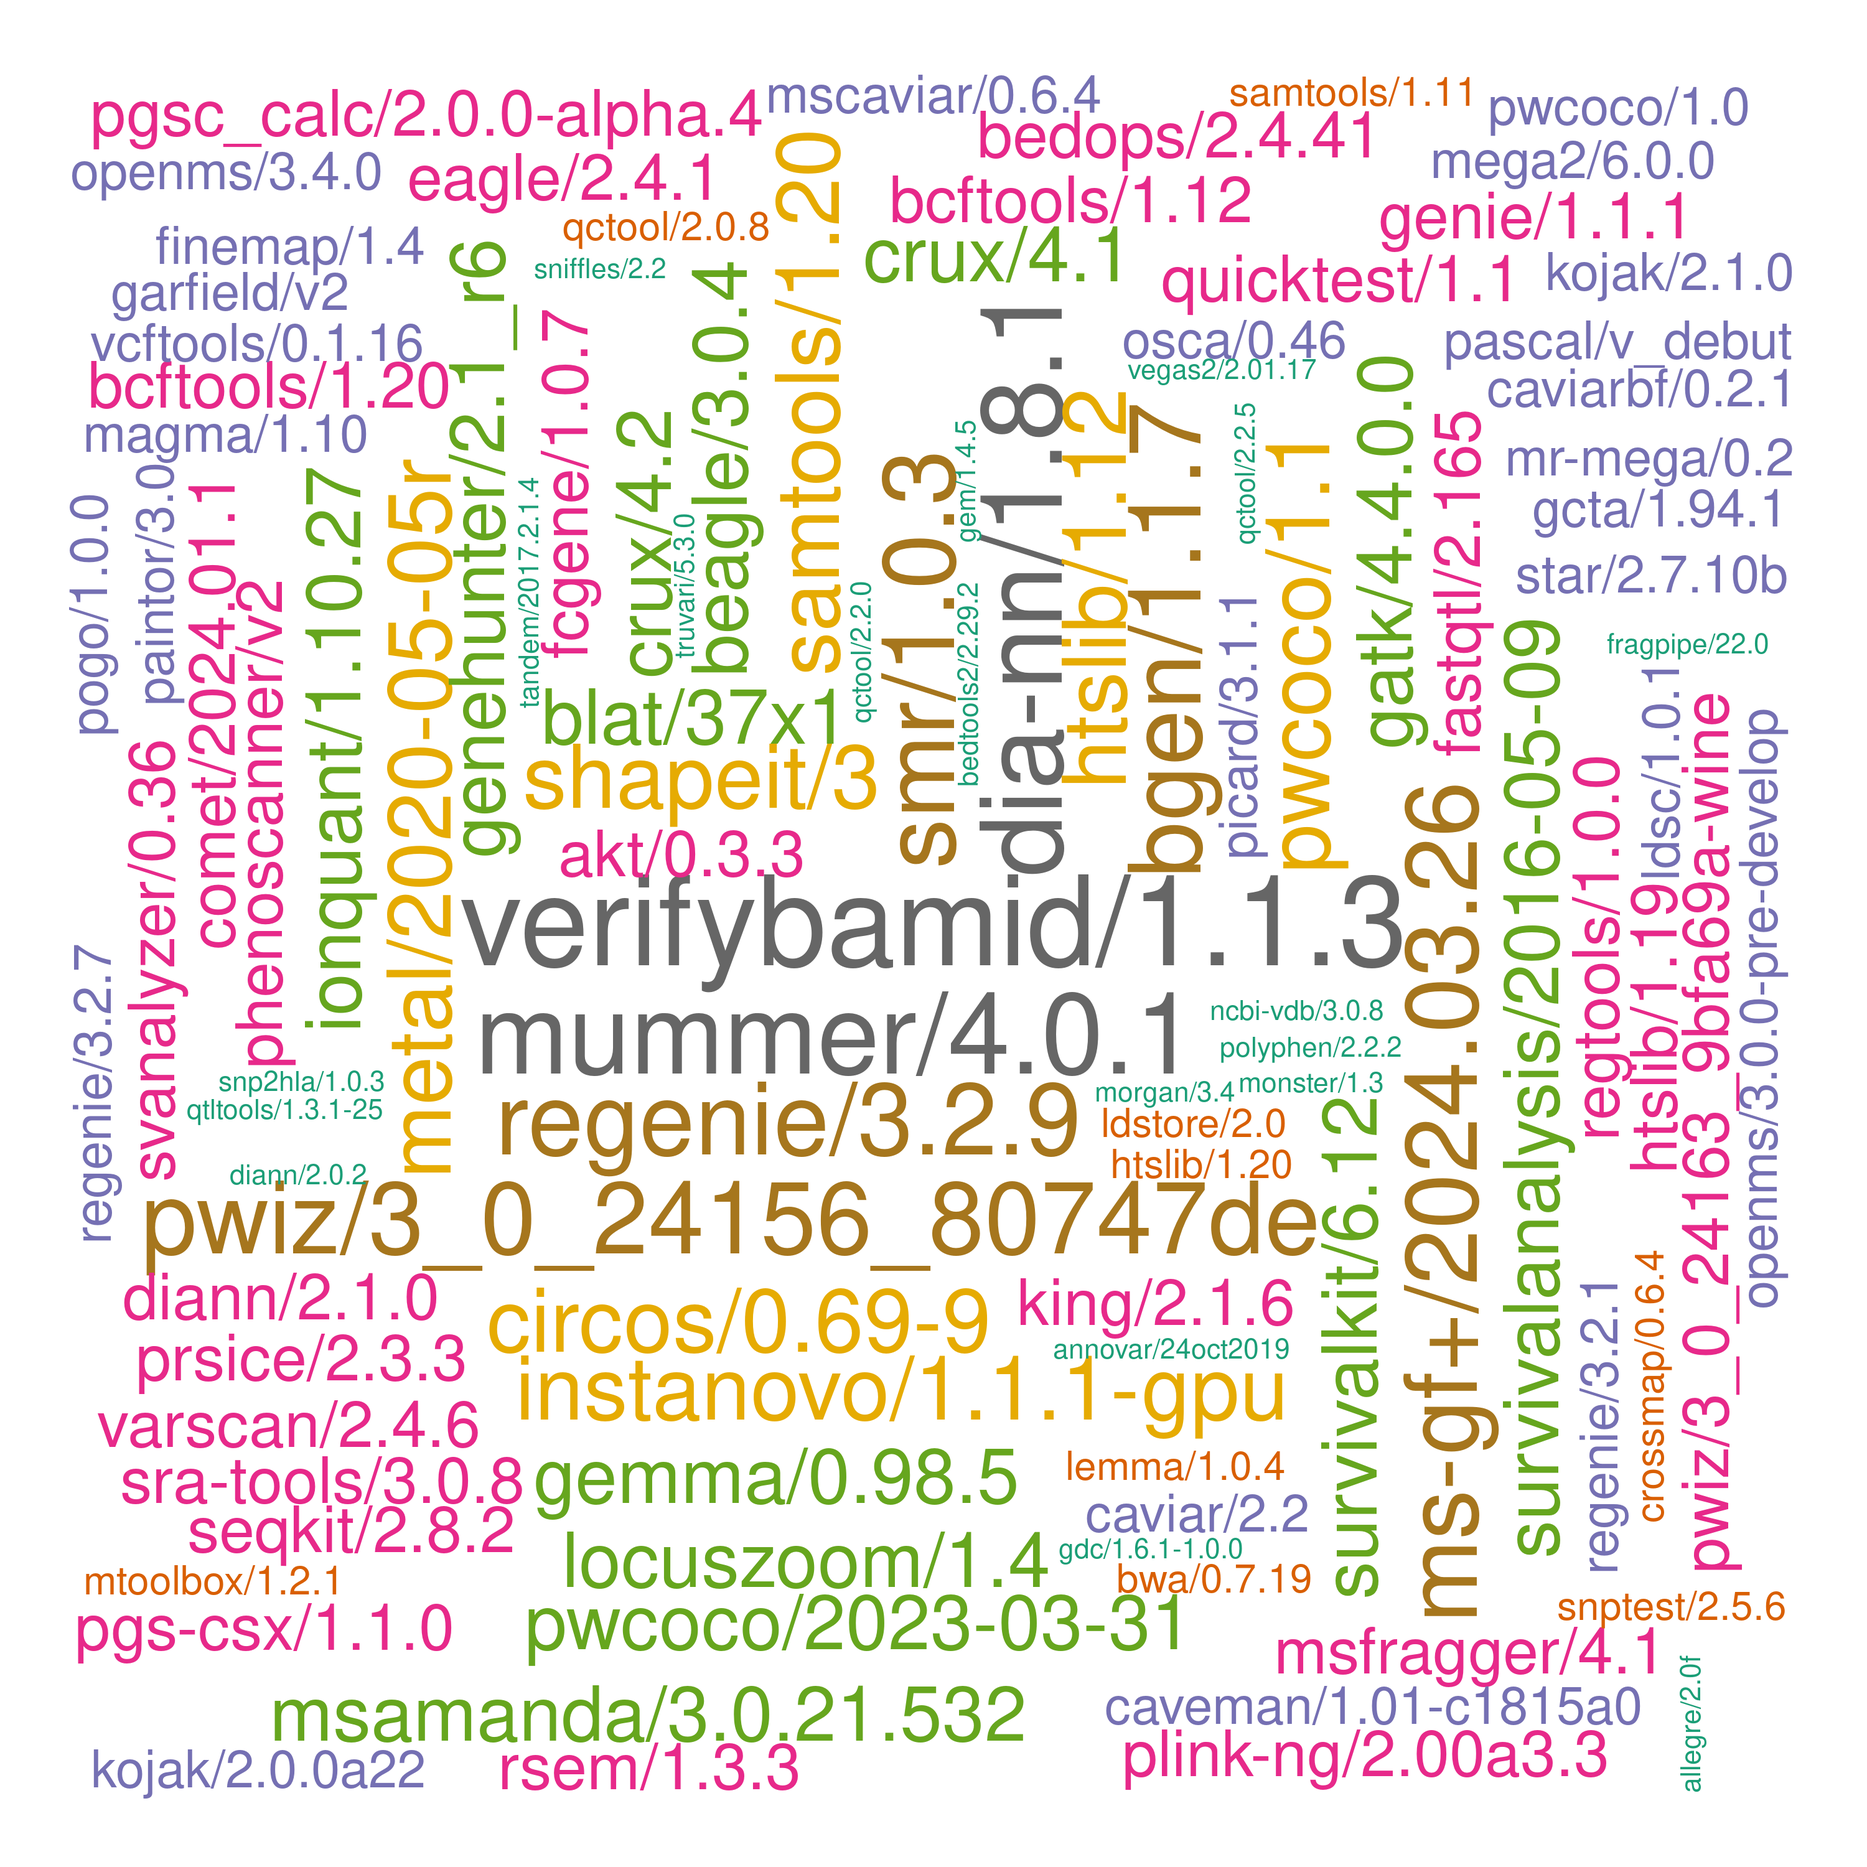
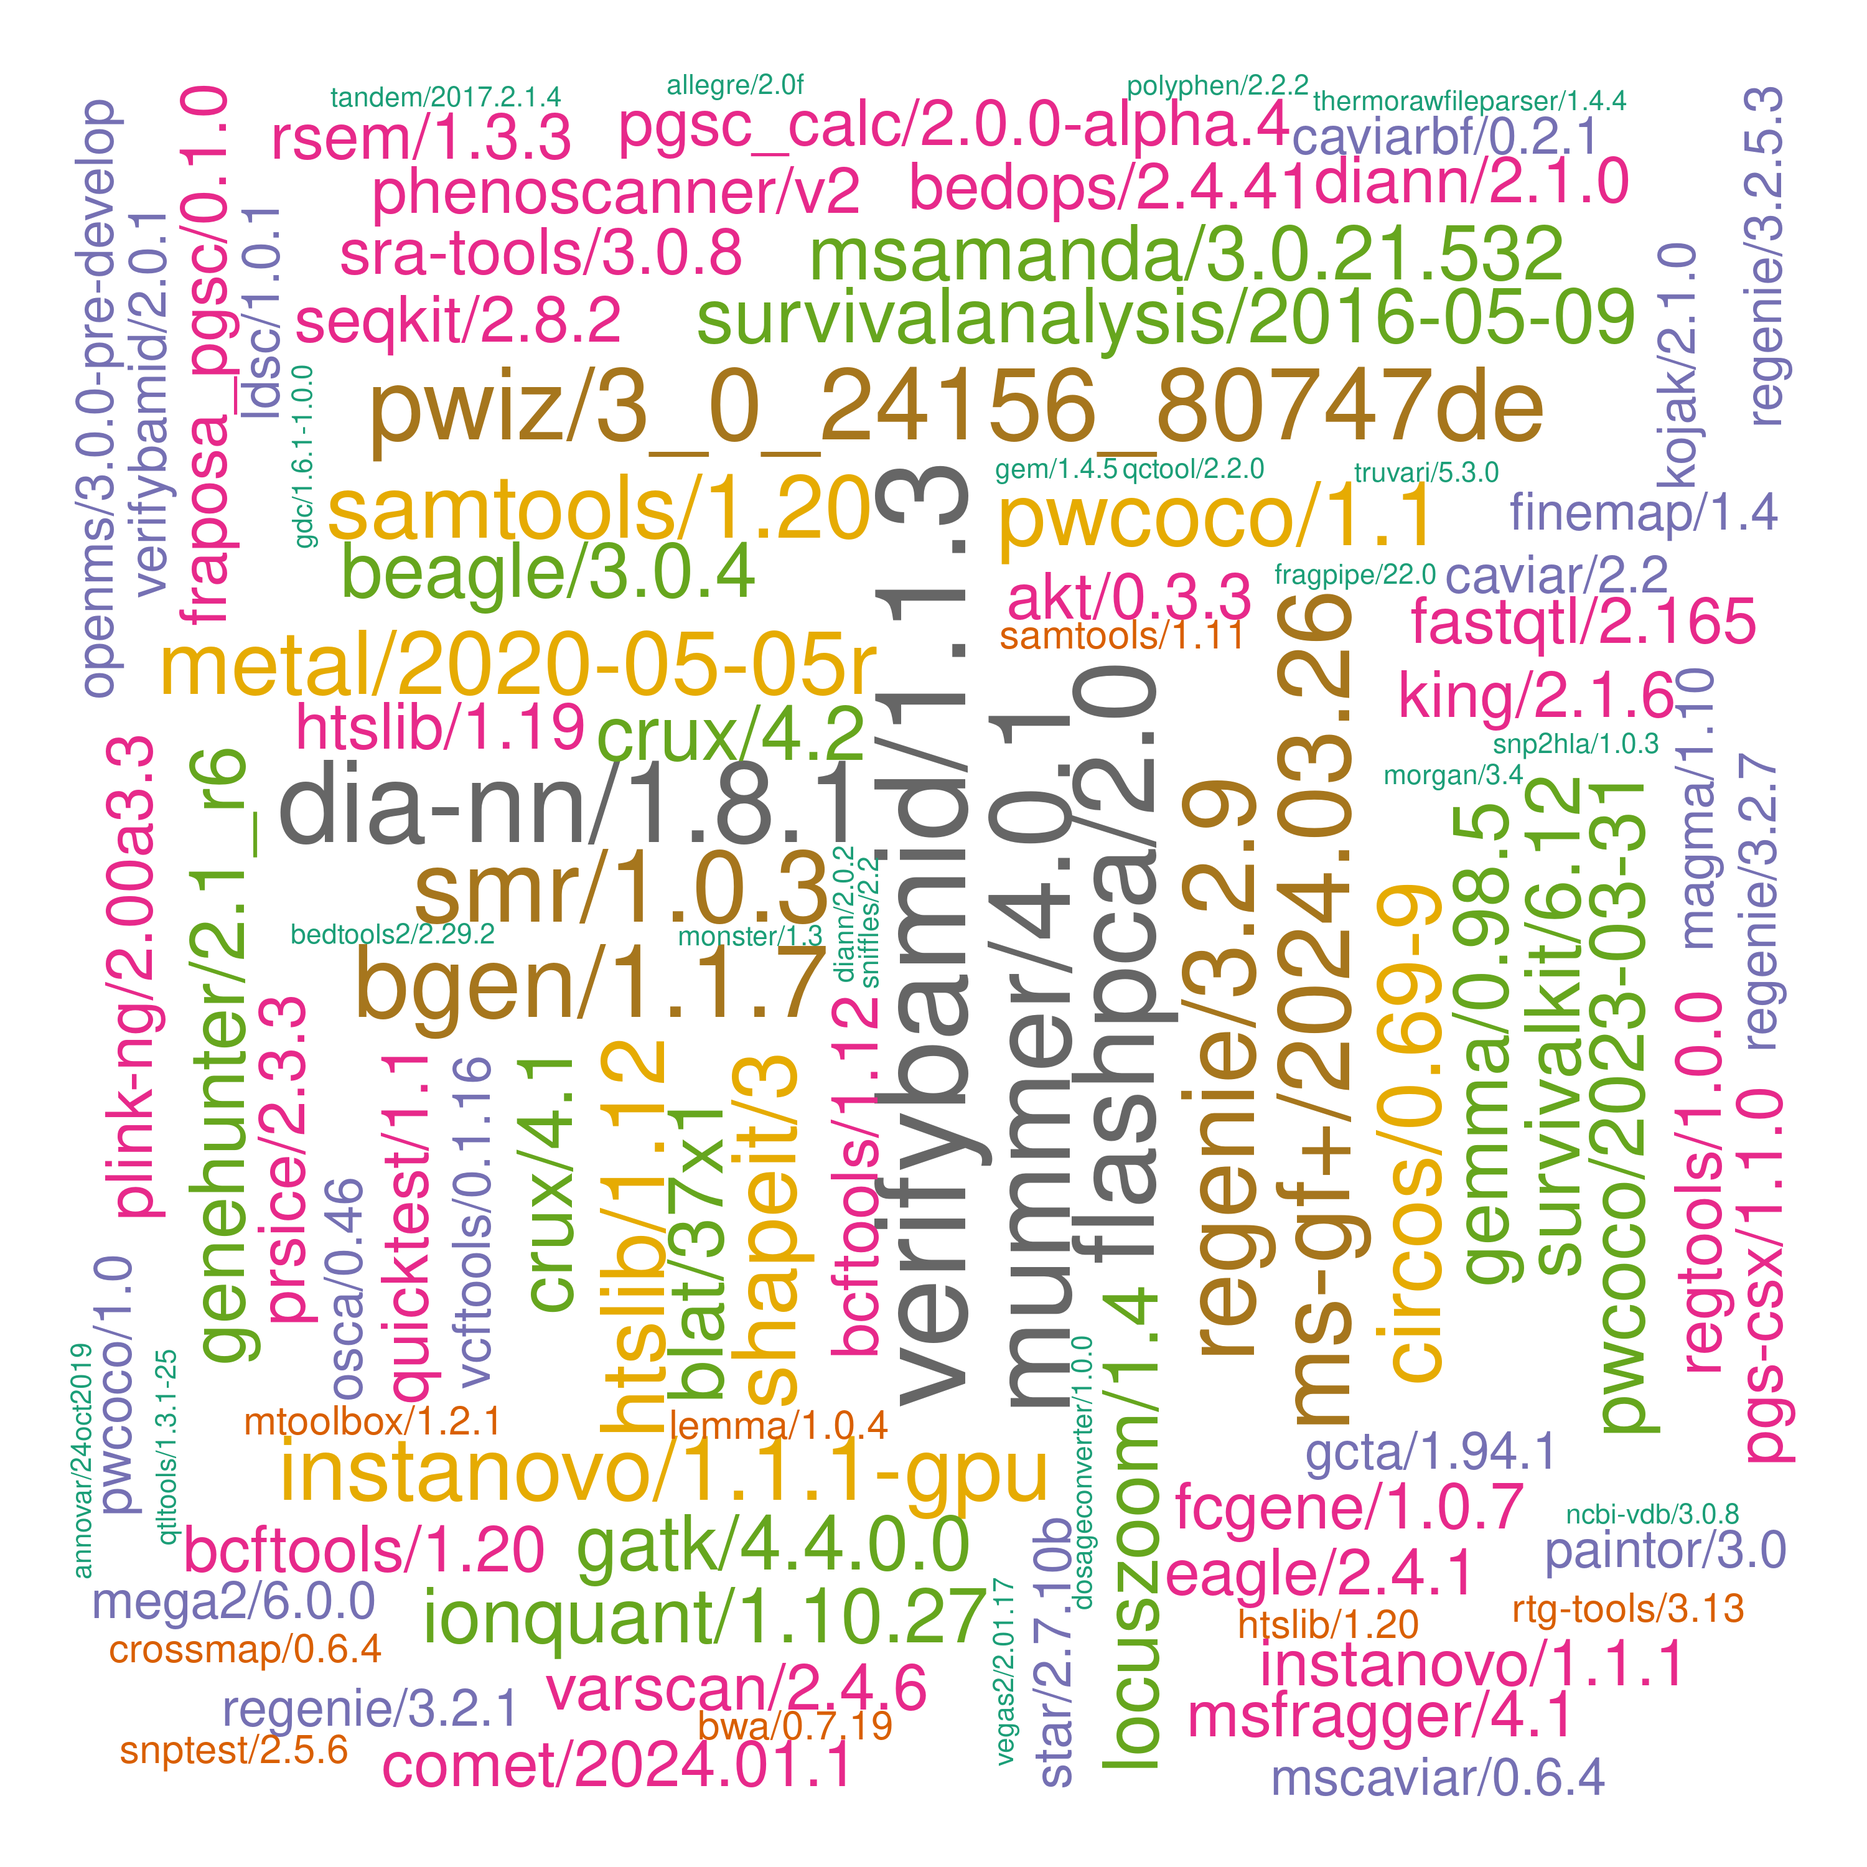
./

Changed region(s): [[0.031, 0.031, 0.961, 0.961]]

diff --git a/systems/ceuadmin.md b/systems/ceuadmin.md
@@ -34,70 +34,71 @@ The current list is as follows,
  [65] "edit"                   "edlib"                  "enchant"                "ensembl-vep"
  [69] "exiv2"                  "exomeplus"              "expat"                  "FastQTL"
  [73] "fcGENE"                 "ffmpeg"                 "fgwas"                  "findlib"
- [77] "finemap"                "firefox"                "FlashLFQ"               "fly"
- [81] "fossil"                 "fpc"                    "FragPipe"               "fraposa_pgsc"
- [85] "freesurfer"             "fribidi"                "GARFIELD"               "gatk"
- [89] "gcta"                   "gdal"                   "gdc"                    "geany"
- [93] "GEM"                    "GEMMA"                  "GENIE"                  "Genotype-Harmonizer"
- [97] "geos"                   "gettext"                "gh"                     "ghc"
-[101] "ghostscript"            "git"                    "git-extras"             "GitKraken"
-[105] "git-lfs"                "glib"                   "glibc"                  "globusconnectpersonal"
-[109] "glpk"                   "gmp"                    "gnutls"                 "go"
-[113] "googletest"             "graphene"               "GraphicsMagick"         "GreenAlgorithms4HPC"
-[117] "gsl"                    "gsutil"                 "gtk+"                   "gtksourceview"
-[121] "gtool"                  "haplogrep"              "hap.py"                 "hivex"
-[125] "hpg"                    "htslib"                 "hunspell"               "icu"
-[129] "ImageJ"                 "ImageMagick"            "impute"                 "inetutils"
-[133] "InstaNovo"              "IonQuant"               "JabRef"                 "JAGS"
-[137] "jasper"                 "jq"                     "json-c"                 "KentUtils"
-[141] "KING"                   "kojak"                  "krb5"                   "lapack"
-[145] "ldc2"                   "ldsc"                   "LDstore"                "LEMMA"
-[149] "leptonica"              "lib64"                  "libarchive"             "libcares"
-[153] "libgcrypt"              "libgeotiff"             "libgit2"                "libglvnd"
-[157] "libiconv"               "libidn2"                "libjpeg-turbo"          "libntlm"
-[161] "libpng"                 "libseccomp"             "libsodium"              "libssh"
-[165] "libssh2"                "libuv"                  "libxml2"                "libxslt"
-[169] "linux"                  "llama.cpp"              "llm"                    "locuszoom"
-[173] "LVM2"                   "MAGENTA"                "magma"                  "Mango"
-[177] "MaxQuant"               "Mega2"                  "metal"                  "MetaMorpheus"
-[181] "micromamba"             "Miniconda3"             "MONSTER"                "MORGAN"
-[185] "MR-MEGA"                "msamanda"               "MsCAVIAR"               "MSFragger"
-[189] "MS-GF+"                 "msms"                   "MToolBox"               "MUMmer"
-[193] "nano"                   "nasm"                   "ncbi-vdb"               "ncurses"
-[197] "netbeans"               "nettle"                 "nextflow"               "nginx"
-[201] "NLopt"                  "node"                   "nspr"                   "ntlm"
-[205] "ocaml"                  "ollama"                 "oniguruma"              "opam"
-[209] "openjdk"                "OpenMS"                 "openssh"                "openssl"
-[213] "osca"                   "p7zip-zstd"             "PAINTOR"                "pandoc"
-[217] "pandoc-citeproc"        "pango"                  "parallel"               "Pascal"
-[221] "patchelf"               "pcre2"                  "pdf2djvu"               "pdfjam"
-[225] "peer"                   "Perseus"                "pgsc_calc"              "PGS-CSx"
-[229] "phenoscanner"           "PhySO"                  "picard"                 "pigz"
-[233] "pkg-config"             "plink"                  "plink-bgi"              "plinkseq"
-[237] "podman"                 "PoGo"                   "polyphen"               "poppler"
-[241] "popt"                   "proj"                   "PRSice"                 "pspp"
-[245] "pulsar"                 "PWCoCo"                 "pwiz"                   "python"
-[249] "qctool"                 "qemu"                   "qpdf"                   "qt"
-[253] "qtcreator"              "QTLtools"               "quarto"                 "quicktest"
-[257] "R"                      "raremetal"              "rclone"                 "readline"
-[261] "regenie"                "regtools"               "RHHsoftware"            "RSEM"
-[265] "rst2pdf"                "rstudio"                "rtg-tools"              "rtmpdump"
-[269] "ruby"                   "rust"                   "sage"                   "samtools"
-[273] "Scala"                  "scGPT"                  "seqkit"                 "SEQPower"
-[277] "shapeit"                "singularity"            "SMR"                    "snakemake"
-[281] "sniffles"               "SNP2HLA"                "snptest"                "spread-sheet-widget"
-[285] "spyder"                 "sqlite"                 "sra-tools"              "sshpass"
-[289] "ssw"                    "STAR"                   "stata"                  "SurvivalAnalysis"
-[293] "SurvivalKit"            "SuSiEx"                 "SVanalyzer"             "Swift"
-[297] "SYMPHONY"               "Synapse"                "tabix"                  "tandem"
-[301] "tatami"                 "tesseract"              "texinfo"                "ThermoRawFileParser"
-[305] "ThermoRawFileParserGUI" "thunderbird"            "tidy"                   "tiff"
-[309] "trinculo"               "trousers"               "truvari"                "Typora"
-[313] "unbound"                "uv"                     "vala"                   "VarScan"
-[317] "vcftools"               "vdo"                    "VEGAS2"                 "verifyBamID"
-[321] "VirtualBox"             "VSCode"                 "VSCodium"               "vte"
-[325] "Windsurf"               "wine"                   "wrk"                    "xpdf"
-[329] "yaml-cpp"               "Zettlr"                 "Zotero"                 "zstd"
+ [77] "finemap"                "firefox"                "FlashLFQ"               "flashpca"
+ [81] "fly"                    "fossil"                 "fpc"                    "FragPipe"
+ [85] "fraposa_pgsc"           "freesurfer"             "fribidi"                "GARFIELD"
+ [89] "gatk"                   "gcta"                   "gdal"                   "gdc"
+ [93] "geany"                  "GEM"                    "GEMMA"                  "GENIE"
+ [97] "Genotype-Harmonizer"    "geos"                   "gettext"                "gh"
+[101] "ghc"                    "ghostscript"            "git"                    "git-extras"
+[105] "GitKraken"              "git-lfs"                "glib"                   "glibc"
+[109] "globusconnectpersonal"  "glpk"                   "gmp"                    "gnutls"
+[113] "go"                     "googletest"             "graphene"               "GraphicsMagick"
+[117] "GreenAlgorithms4HPC"    "gsl"                    "gsutil"                 "gtk+"
+[121] "gtksourceview"          "gtool"                  "haplogrep"              "hap.py"
+[125] "hivex"                  "hpg"                    "htslib"                 "hunspell"
+[129] "icu"                    "ImageJ"                 "ImageMagick"            "impute"
+[133] "inetutils"              "InstaNovo"              "IonQuant"               "JabRef"
+[137] "JAGS"                   "jasper"                 "jq"                     "json-c"
+[141] "KentUtils"              "KING"                   "kojak"                  "krb5"
+[145] "lapack"                 "ldc2"                   "ldsc"                   "LDstore"
+[149] "LEMMA"                  "leptonica"              "lib64"                  "libarchive"
+[153] "libcares"               "libgcrypt"              "libgeotiff"             "libgit2"
+[157] "libglvnd"               "libiconv"               "libidn2"                "libjpeg-turbo"
+[161] "libntlm"                "libpng"                 "libseccomp"             "libsodium"
+[165] "libssh"                 "libssh2"                "libuv"                  "libxml2"
+[169] "libxslt"                "linux"                  "llama.cpp"              "llm"
+[173] "locuszoom"              "LVM2"                   "MAGENTA"                "magma"
+[177] "Mango"                  "MaxQuant"               "Mega2"                  "metal"
+[181] "MetaMorpheus"           "micromamba"             "Miniconda3"             "MONSTER"
+[185] "MORGAN"                 "MR-MEGA"                "msamanda"               "MsCAVIAR"
+[189] "MSFragger"              "MS-GF+"                 "msms"                   "MToolBox"
+[193] "MUMmer"                 "nano"                   "nasm"                   "ncbi-vdb"
+[197] "ncurses"                "netbeans"               "nettle"                 "nextflow"
+[201] "nginx"                  "NLopt"                  "node"                   "nspr"
+[205] "ntlm"                   "ocaml"                  "ollama"                 "oniguruma"
+[209] "opam"                   "openjdk"                "OpenMS"                 "openssh"
+[213] "openssl"                "osca"                   "p7zip-zstd"             "PAINTOR"
+[217] "pandoc"                 "pandoc-citeproc"        "pango"                  "parallel"
+[221] "Pascal"                 "patchelf"               "pcre2"                  "pdf2djvu"
+[225] "pdfjam"                 "peer"                   "Perseus"                "pgsc_calc"
+[229] "PGS-CSx"                "phenoscanner"           "PhySO"                  "picard"
+[233] "pigz"                   "pkg-config"             "plink"                  "plink-bgi"
+[237] "plinkseq"               "podman"                 "PoGo"                   "polyphen"
+[241] "poppler"                "popt"                   "proj"                   "PRSice"
+[245] "pspp"                   "pulsar"                 "PWCoCo"                 "pwiz"
+[249] "python"                 "qctool"                 "qemu"                   "qpdf"
+[253] "qt"                     "qtcreator"              "QTLtools"               "quarto"
+[257] "quicktest"              "R"                      "raremetal"              "rclone"
+[261] "readline"               "regenie"                "regtools"               "RHHsoftware"
+[265] "RSEM"                   "rst2pdf"                "rstudio"                "rtg-tools"
+[269] "rtmpdump"               "ruby"                   "rust"                   "sage"
+[273] "samtools"               "Scala"                  "scGPT"                  "seqkit"
+[277] "SEQPower"               "shapeit"                "singularity"            "SMR"
+[281] "snakemake"              "sniffles"               "SNP2HLA"                "snptest"
+[285] "spread-sheet-widget"    "spyder"                 "sqlite"                 "sra-tools"
+[289] "sshpass"                "ssw"                    "STAR"                   "stata"
+[293] "SurvivalAnalysis"       "SurvivalKit"            "SuSiEx"                 "SVanalyzer"
+[297] "Swift"                  "SYMPHONY"               "Synapse"                "tabix"
+[301] "tandem"                 "tatami"                 "tesseract"              "texinfo"
+[305] "ThermoRawFileParser"    "ThermoRawFileParserGUI" "thunderbird"            "tidy"
+[309] "tiff"                   "trinculo"               "trousers"               "truvari"
+[313] "Typora"                 "unbound"                "uv"                     "vala"
+[317] "VarScan"                "vcftools"               "vdo"                    "VEGAS2"
+[321] "verifyBamID"            "VirtualBox"             "VSCode"                 "VSCodium"
+[325] "vte"                    "Windsurf"               "wine"                   "wrk"
+[329] "xpdf"                   "yaml-cpp"               "Zettlr"                 "Zotero"
+[333] "zstd"
 ```
 
 These are wrapped up as :star::star::star: **[modules](https://modules.readthedocs.io/en/latest/index.html)** :star::star::star:.
@@ -435,6 +436,7 @@ Further information is avaiiable from **/usr/local/Cluster-Apps/ceuadmin/doc/ceu
     | ""         | MToolBox/1.2.1               | Genetics    |
     | 2025-08-10 | haplogrep/2.4.0              | Genetics    |
     | ""         | haplogrep/3.2.2              | Genetics    |
+    | 2025-08-11 | flashpca/2.0                 | Genetics    |
 
     \* CEU or approved users only.
 

diff --git a/systems/setup.md b/systems/setup.md
@@ -458,6 +458,7 @@ All entries are ordered chronologically.
 | ""         | python/3.12.10                   | Generic               |
 | 2025-08-10 | haplogrep/2.4.0                  | Genetics[^haplogrep]  |
 | ""         | haplogrep/3.2.2                  | Genetics              |
+| 2025-08-11 | flashpca/2.0                     | Genetics[^flashpca]   |
 
 \* CEU or approved users only.
 
@@ -3073,3 +3074,7 @@ They are generated from script [setup.sh](setup.sh),
     ```
 
     where [hgdp.py](files/hgdp.py) is used to reformat the data to a required format by [sloan15.pl](files/sloan15.pl).
+
+[^flashpca]: **flashpca**
+
+    This module is built to mirror flashpca2/2 which has been linked to personal home folder.
